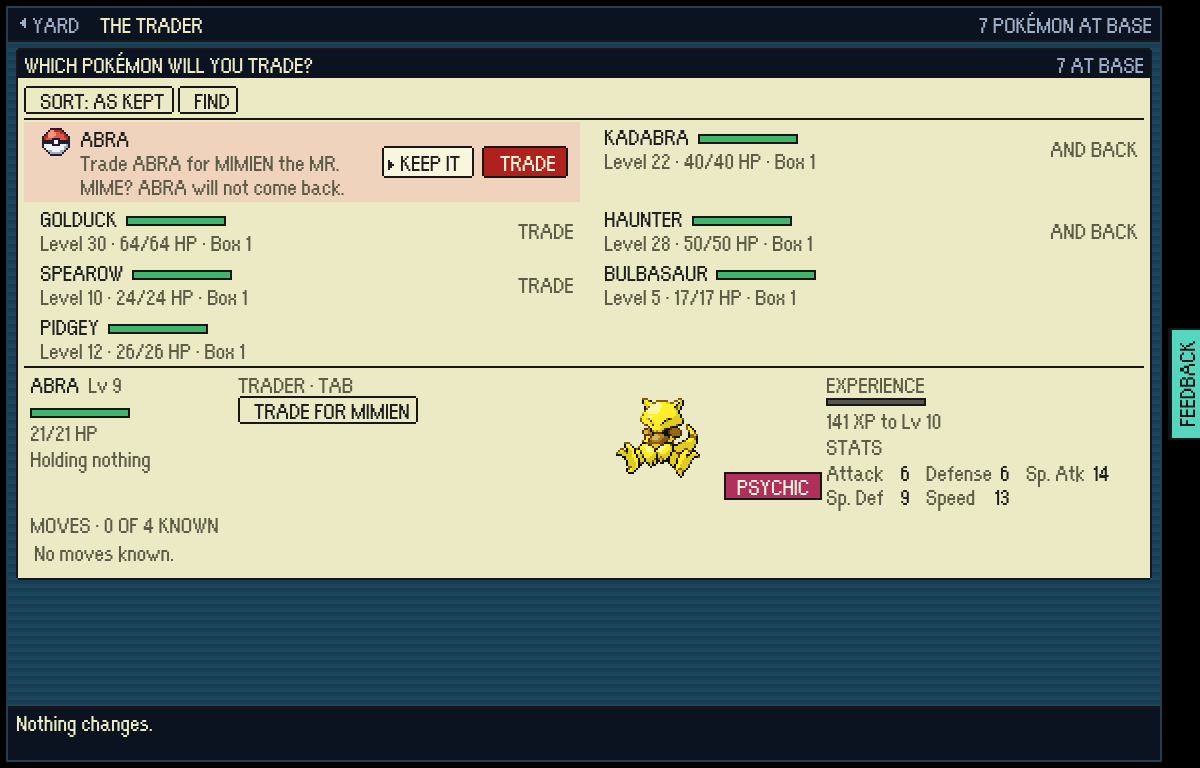
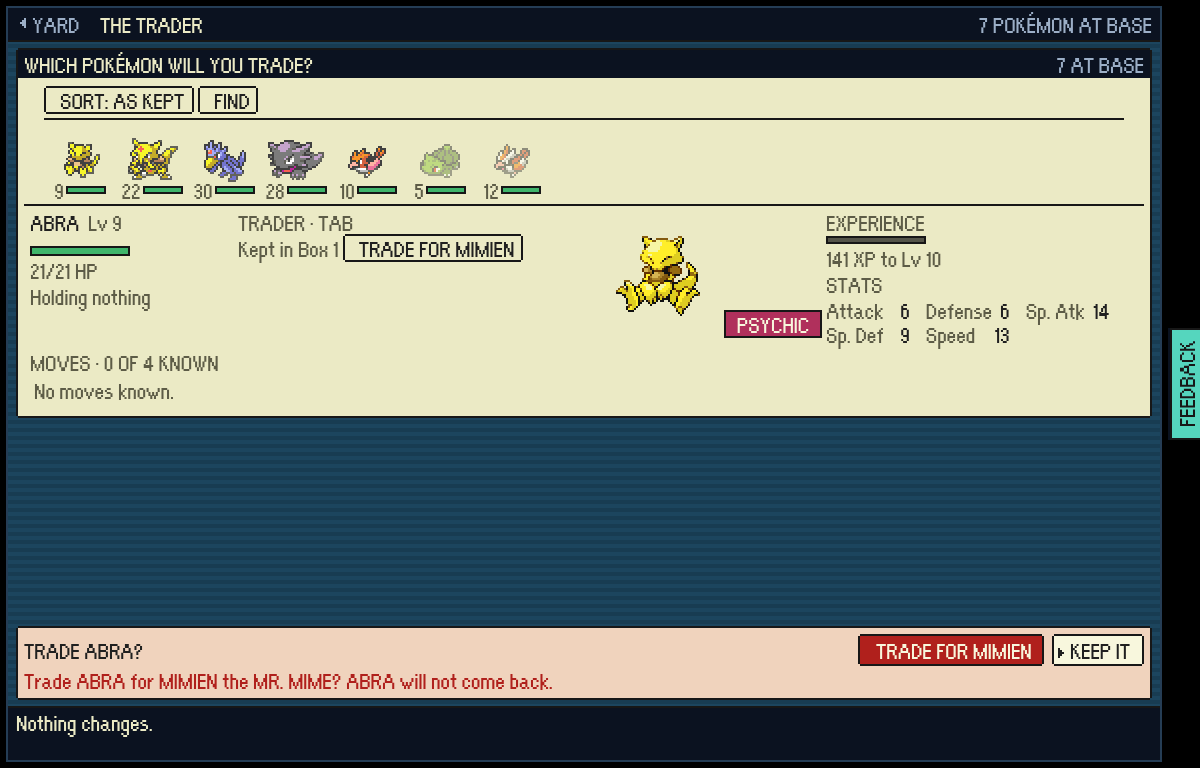
THE TRADER's list is FireRed's PC box like the Day-Care's, and asks in the bar under it

diff --git a/src/game/scenes/HubScene.ts b/src/game/scenes/HubScene.ts
@@ -3714,10 +3714,8 @@ export class HubScene extends Phaser.Scene {
     readonly confirmLabel: string;
     readonly confirmHelp: string;
     readonly tone?: 'danger' | 'primary';
-    /** The way out, when what is kept is not "them": one Pokémon is "it". */
-    readonly cancelLabel?: string;
   }): string {
-    return `<div class="px-pair px-arming" data-shows="${deal.id}"><div class="px-row has-icon px-tall">${deal.icon}<span class="px-row-main"><strong class="px-name">${deal.name}</strong><small class="px-wrap px-warning">${deal.question}</small></span></div><div class="px-bar-actions"><button class="px-window px-button" data-deal-cancel data-cursor-start data-shows="${deal.id}" data-help="Nothing changes.">${deal.cancelLabel ?? 'Keep them'}</button><button class="px-window px-button is-${deal.tone ?? 'danger'}" ${deal.confirm} data-shows="${deal.id}" data-help="${deal.confirmHelp}">${deal.confirmLabel}</button></div></div>`;
+    return `<div class="px-pair px-arming" data-shows="${deal.id}"><div class="px-row has-icon px-tall">${deal.icon}<span class="px-row-main"><strong class="px-name">${deal.name}</strong><small class="px-wrap px-warning">${deal.question}</small></span></div><div class="px-bar-actions"><button class="px-window px-button" data-deal-cancel data-cursor-start data-shows="${deal.id}" data-help="Nothing changes.">Keep them</button><button class="px-window px-button is-${deal.tone ?? 'danger'}" ${deal.confirm} data-shows="${deal.id}" data-help="${deal.confirmHelp}">${deal.confirmLabel}</button></div></div>`;
   }
 
   /**
@@ -4030,54 +4028,67 @@ export class HubScene extends Phaser.Scene {
     const away = awayOnRaid(this.savedGame);
     const made = this.savedGame.raidProgress.tradesMade ?? [];
     const refusal = (stored: StashedPokemon): string | undefined => tradeRefusal(this.stash, stored.id, away, made);
+    const dealOf = (stored: StashedPokemon) =>
+      refusal(stored) === undefined ? tradeDealFor(stored.pokemon.base.id, made) : undefined;
     const found = this.findablePokemon;
     const shown = [...found.filter((stored) => refusal(stored) === undefined), ...found.filter((stored) => refusal(stored) !== undefined)];
     const boxNames = this.stash.listBoxes().map((box) => box.name);
+    // FireRed's PC box, as the Day-Care's is: the ones he would trade first.
+    // Never a start while a trade is asking: `refocus` takes the first one, and
+    // the press that armed it would make it (`traderView`'s rule).
     const rows = shown
       .map((stored, index) => {
         const why = refusal(stored);
-        const deal = why === undefined ? tradeDealFor(stored.pokemon.base.id, made) : undefined;
-        if (deal && this.tradeArmed === stored.id) {
-          return this.armedDeal({
-            id: stored.id,
-            icon: itemIcon('poke-ball', stored.pokemon.name),
-            name: escapeAttribute(stored.pokemon.name),
-            question: escapeAttribute(tradeQuestion(stored.pokemon.name, deal)),
-            confirm: `data-trade-confirm="${stored.id}"`,
-            confirmLabel: deal.kind === 'swap' ? 'Trade' : 'Trade and back',
-            confirmHelp: escapeAttribute(tradeHelp(stored.pokemon.name, deal)),
-            tone: deal.kind === 'swap' ? 'danger' : 'primary',
-            cancelLabel: 'Keep it',
-          });
-        }
+        const deal = dealOf(stored);
+        const name = stored.pokemon.name;
         const wiring = deal
-          ? `data-trade="${stored.id}" data-help="${escapeAttribute(tradeHelp(stored.pokemon.name, deal))}"`
+          ? `data-trade="${stored.id}" data-help="${escapeAttribute(tradeHelp(name, deal))}"`
           : `data-refused="${escapeAttribute(why ?? '')}" aria-disabled="true" data-help="${escapeAttribute(why ?? '')}"`;
-        const tag = deal ? pixelTag(deal.kind === 'swap' ? 'Trade' : 'And back') : away.has(stored.id) ? pixelTag('On a raid') : '';
-        // Never a start while a trade is asking: `refocus` takes the first one,
-        // and the press that armed it would make it (`traderView`'s rule).
+        const boxed = boxNames[this.stash.boxIndexOf(stored.id)] ?? '';
         const start = index === 0 && this.tradeArmed === undefined ? ' data-cursor-start' : '';
-        return `<button class="px-row" ${wiring} data-shows="${stored.id}"${start}>${this.pokemonRowBody(stored, tag, boxNames[this.stash.boxIndexOf(stored.id)])}</button>`;
+        return pixelMonTile(stored.pokemon, {
+          classes: away.has(stored.id) ? ['is-away'] : [],
+          attributes: `${wiring} data-shows="${stored.id}" data-box-name="${escapeAttribute(boxed)}" aria-label="${escapeAttribute(`${name}, level ${stored.pokemon.level}, ${boxed}${why === undefined ? '' : `, ${why}`}`)}"${start}`,
+        });
       })
       .join('');
+    const shownFirst = this.tradeArmed ?? shown[0]?.id;
     const details = shown
-      .map((stored, index) =>
-        this.pokemonDetail(stored, index === 0, {
+      .map((stored) =>
+        this.pokemonDetail(stored, stored.id === shownFirst, {
           label: 'Trader',
           chips: (shows) => {
             const why = refusal(stored);
-            const deal = why === undefined ? tradeDealFor(stored.pokemon.base.id, made) : undefined;
-            return deal
-              ? this.chip(`data-trade="${stored.id}" ${shows}`, tradeHelp(stored.pokemon.name, deal), deal.kind === 'swap' ? `Trade for ${deal.trade.nickname}` : 'Trade and back')
-              : this.chip(`data-refused="${escapeAttribute(why ?? '')}" ${shows}`, why ?? '', 'Trade', true);
+            const deal = dealOf(stored);
+            const boxed = boxNames[this.stash.boxIndexOf(stored.id)];
+            const kept = boxed ? `<span class="px-note">Kept in ${escapeAttribute(boxed)}</span>` : '';
+            return (
+              kept +
+              (deal
+                ? this.chip(`data-trade="${stored.id}" ${shows}`, tradeHelp(stored.pokemon.name, deal), deal.kind === 'swap' ? `Trade for ${deal.trade.nickname}` : 'Trade and back')
+                : this.chip(`data-refused="${escapeAttribute(why ?? '')}" ${shows}`, why ?? '', 'Trade', true))
+            );
           },
         }),
       )
       .join('');
+    const armed = shown.find((stored) => stored.id === this.tradeArmed);
+    const armedDeal = armed ? dealOf(armed) : undefined;
+    // A trade of his is for good, so it is asked, in the bar the partner swap
+    // asks in: Keep stands last, in the seat a double press lands on.
+    const asking =
+      armed && armedDeal
+        ? pixelCommitBar({
+            className: 'is-arming',
+            title: armedDeal.kind === 'swap' ? `Trade ${armed.pokemon.name.toUpperCase()}?` : `Send ${armed.pokemon.name.toUpperCase()} over and back?`,
+            lines: [`<span class="px-wrap px-warning">${escapeAttribute(tradeQuestion(armed.pokemon.name, armedDeal))}</span>`],
+            actions: `<button class="px-window px-button is-${armedDeal.kind === 'swap' ? 'danger' : 'primary'}" data-trade-confirm="${armed.id}" data-shows="${armed.id}" data-help="${escapeAttribute(tradeHelp(armed.pokemon.name, armedDeal))}">${armedDeal.kind === 'swap' ? `Trade for ${armedDeal.trade.nickname}` : 'Trade and back'}</button><button class="px-window px-button" data-deal-cancel data-cursor-start data-shows="${armed.id}" data-help="Nothing changes.">Keep it</button>`,
+          })
+        : '';
     return `<main class="px-body daycare-layout">${pixelWindow(
-      `<div class="px-list px-scroll" ${pixelColumns(COLUMN_MEASURES.pokemon)}>${this.browseBar(false)}${rows || '<p class="px-empty">No Pokémon answers that.</p>'}</div>${details}`,
+      `<div class="px-mon-tiles px-scroll">${this.browseBar(false)}${rows || '<p class="px-empty">No Pokémon answers that.</p>'}</div>${details}`,
       { className: 'stash-roster', heading: 'Which Pokémon will you trade?', note: this.atBaseNote(away) },
-    )}</main>`;
+    )}${asking}</main>`;
   }
 
   /** One trade with THE TRADER, made in one write, and said back on the lawn. */

diff --git a/docs/screens/endgame-fixes/README.md b/docs/screens/endgame-fixes/README.md
@@ -15,5 +15,5 @@ What the endgame bug hunt of 12 Nov 2026 found, before and after. The `before-` 
 ## THE TRADER
 
 - `after-trader-says.png`: on the lawn behind the RAID ARENA, in FireRed's own words. His first open trade is MIMIEN the MR. MIME, for an ABRA.
-- `after-trader-list.png`: his list. It shows every Pokémon at base. The ones he would trade for come first, each tagged TRADE (one of his nine) or AND BACK (the trade that evolves it). The rest say why not.
-- `after-trader-asks.png`: a trade of his is for good, so the row asks before he makes it.
+- `after-trader-list.png`: his list, laid out as FireRed's PC box like the Day-Care's. It shows every Pokémon at base, with the ones he would trade for first. The dossier's button says what each would come back as: TRADE FOR MIMIEN, or TRADE AND BACK for one that trading evolves. The rest are greyed out and say why not.
+- `after-trader-asks.png`: a trade of his is for good, so it is asked in the bar under the box, as the partner swap asks. KEEP IT stands where a double press lands.
